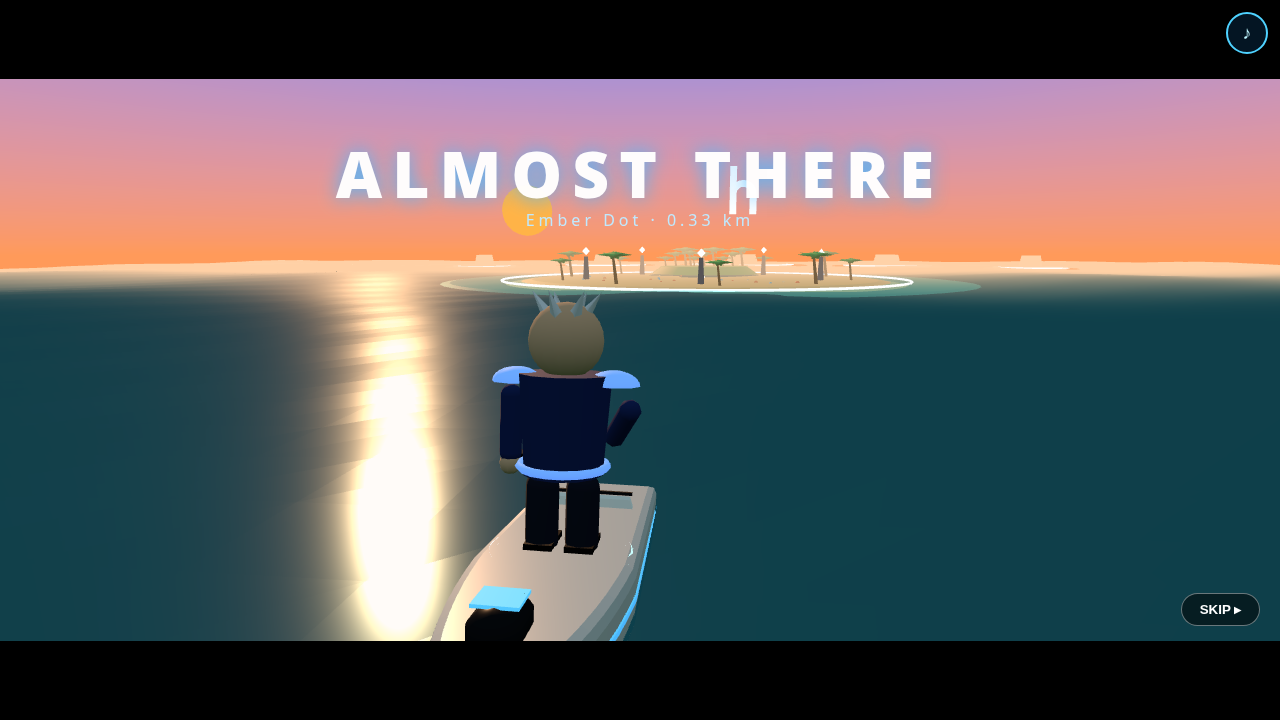
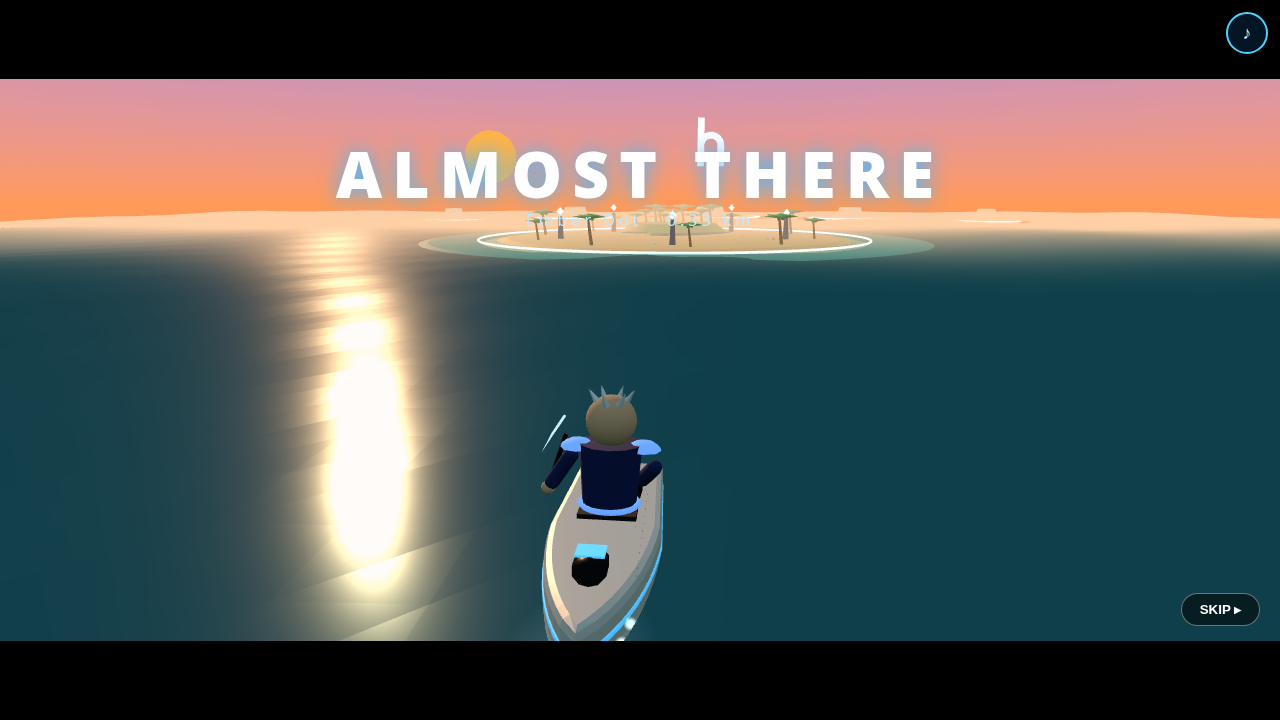
Seated Almost There boat ride + pulled-back cam; role chips: Berserker/Tidekeeper/Vanguard/Outer King

diff --git a/public/game.js b/public/game.js
@@ -274,7 +274,7 @@ const boat = new THREE.Group();
   const glass = new THREE.Mesh(new THREE.BoxGeometry(3.1, 1.1, .12), M(0x9fe8ff, .25, { transparent: true, opacity: .55, metalness: .6, roughness: .05 })); glass.position.set(0, 1.45, 2.6); glass.rotation.x = -1.0; const frame = new THREE.Mesh(new THREE.BoxGeometry(3.2, .1, .1), M(0x14161c, 0)); frame.position.set(0, 1.85, 2.3); boat.add(frame);
   const motor = new THREE.Mesh(new THREE.BoxGeometry(.35, 1.9, .5), M(0x14161c, 0, { metalness: .6, roughness: .3 })); motor.position.set(0, .2, -6.6);
   const cowl = new THREE.Mesh(new THREE.CapsuleGeometry(.6, .7, 4, 10), M(0x1a1d24, 0, { metalness: .5, roughness: .25 })); cowl.rotation.x = Math.PI / 2; cowl.scale.set(1, 1, .85); cowl.position.set(0, 1.55, -6.6); const cap = new THREE.Mesh(new THREE.BoxGeometry(1, .08, .9), M(SKY, 1)); cap.position.set(0, 2.05, -6.6); boat.add(cap);
-  boat.add(keel, hull, stripe, deck, glass, motor, cowl);
+  const seat = new THREE.Mesh(new THREE.BoxGeometry(2.4, .45, 1.6), M(0x1a1d24, 0, { roughness: .7 })); seat.position.set(0, 1.12, -.9); boat.add(keel, hull, stripe, deck, glass, motor, cowl, seat);
   // wake: two foam ribbons + a center churn (shared additive sprite, no particles flood)
   const foam = (x, rot) => { const w = sprite(STREAK, 0xcfeff5, 1.3, 30, .35); w.material.blending = THREE.NormalBlending; w.position.set(x, -.3, -24); w.rotation.y = Math.PI + rot; boat.add(w); return w; };
   const blob = (x, z, sx, sz) => { const c = sprite(ORB, 0xf2fbff, sx, sz, .8); c.material.blending = THREE.NormalBlending; c.position.set(x, -.2, z); boat.add(c); return c; };
@@ -523,11 +523,12 @@ function startCine() {
   $('#cineText').textContent = MAPID === 'binance' ? 'BINANCE SIEGE' : 'HERTZFLOW'; $('#cineSub').textContent = MAPID === 'binance' ? 'SHORE ▸ West Channel ▸ East Fort ▸ Outer L ▸ CORE' : 'SHORE ▸ Left Pill ▸ H Bridge ▸ Right Pill ▸ EXTRACT';
 }
 function startBoat() { crumb.visible = false; S.mode = 'cine'; S.t = 0; clouds.visible = false; setArena(false); scene.fog.far = 320; $('#cineText').textContent = 'ALMOST THERE';
-  boat.visible = true; boat.position.set(0, 0, 230); boat.rotation.y = Math.PI; boat.add(zayn); zayn.position.set(0, .9, -1); zayn.rotation.set(0, 0, 0); zayn.scale.set(1, 1, 1); }
+  boat.visible = true; boat.position.set(0, 0, 230); boat.rotation.y = Math.PI; boat.add(zayn); zayn.position.set(0, -1.05, -.6); zayn.rotation.set(0, 0, 0); zayn.scale.set(1, 1, 1); seatPose(true); }
+function seatPose(on) { const u = zayn.userData; if (!u.legL) return; u.legL.rotation.set(on ? -1.45 : 0, 0, on ? -.12 : 0); u.legR.rotation.set(on ? -1.45 : 0, 0, on ? .12 : 0); if (u.armR) { u.armR.rotation.set(on ? -.25 : -.2, 0, on ? .55 : 0); } } // seated Almost There: knees bent mid-hull, hand down on the gunwale
 function landOnBeach() {
   if (S.mode !== 'cine') return; S.mode = 'fading'; fade(1);
   setTimeout(() => {
-    boat.visible = false; boat.remove(zayn); scene.add(zayn); buildMap(MAPID); S.yaw = Math.PI; setArena(true);
+    boat.visible = false; boat.remove(zayn); scene.add(zayn); seatPose(false); buildMap(MAPID); S.yaw = Math.PI; setArena(true);
     Object.assign(S, { hp: CH.hp, en: 40, score: 0, kills: 0, xp: 0, wave: 0, iframes: 0, buff: 0, spawnQ: [], waveNext: 0, cd: { wave: 0, chain: 0, roar: 0, dodge: 0 } });
     show('#cine', false); show('#hud', true);
     startSection(0, true);
@@ -651,7 +652,7 @@ const merits = () => +localStorage.getItem('sw_merits') || 0, owned = () => new 
 const isOwned = id => ALL || owned().has(id);
 function addMerits(n) { localStorage.setItem('sw_merits', merits() + n); }
 const CLASS = { lyra: ['Scout', 'FAST FEET, GREEN BOLTS, ONE MOON RAIN.'], hertzling: ['Spirit', 'PULLS THE PACK, THEN BREAKS THE ECHO.'], chado: ['Blade', 'TWO BLADES, ONE DASH — THEY NEVER SEE IT.'],
-  kael: ['Guard', 'Line placeholder.'], warden: ['Warden', 'Line placeholder.'], bankyo: ['Vault', 'Line placeholder.'], zayn: ['Sniper', 'Line placeholder.'], hero: ['Founder', 'Line placeholder.'] };
+  kael: ['Berserker', 'Line placeholder.'], warden: ['Vanguard', 'Line placeholder.'], bankyo: ['Tidekeeper', 'Line placeholder.'], zayn: ['Outer King', 'Line placeholder.'], hero: ['Founder', 'Line placeholder.'] };
 const SIL = col => `<svg viewBox="0 0 40 48" class="sil"><circle cx="20" cy="11" r="7" fill="${col}"/><path d="M8 46 L11 24 Q20 17 29 24 L32 46 Z" fill="${col}"/><path d="M29 26 L38 18" stroke="${col}" stroke-width="3"/></svg>`;
 const KIT = c => `<div class="kicons">${[['◆', c.wave.col, 'Wave'], ['◎', c.chain.col, c.chain.name], ['✦', c.roar.col, c.roar.name]].map(([g, col, t]) => `<span title="${t}" style="--k:#${new THREE.Color(col).getHexString()}">${g}</span>`).join('')}</div>`;
 function boneCard(id, c, own) { const [role, line] = CLASS[id] || ['Hero', 'Line placeholder.'];
@@ -697,7 +698,7 @@ function tick(now) {
     burst(new THREE.Vector3(boat.position.x + (Math.random() - .5) * 3, .2, boat.position.z + 5), [0xffffff, 0xbff6ff], 2, 3, 2, 8);
     $('#cineSub').textContent = `Ember Dot · ${Math.max(0, (boat.position.z - 34) / 500).toFixed(2)} km`;
     const sw = Math.sin(S.t * .35) * 6;
-    cam.position.set(boat.position.x + sw, 9 + Math.sin(S.t) * .4, boat.position.z + 19); cam.lookAt(boat.position.x, 3, boat.position.z - 20);
+    cam.position.set(boat.position.x + sw * .7, 13.5 + Math.sin(S.t) * .4, boat.position.z + 27); cam.lookAt(boat.position.x, 2, boat.position.z - 22); zayn.position.y = -1.05 + Math.sin(S.t * 2.2 + .6) * .04; seatPose(true);
     if (S.t > 13.5) landOnBeach();
   } else {
     if (S.mode === 'play') {

diff --git a/docs/DESIGN.md b/docs/DESIGN.md
@@ -104,3 +104,4 @@ Gold/charcoal plate, mini silhouette, role chip, 1-liner, 3 kit icons (wave/chai
 - Cursor: soft cyan ground reticle; sticky ~22° cone snaps to a readable foe; outside the cone the cursor always wins.
 - Facing dead-zone kills yaw jitter; dodge hop 2.1u.
 - Foe read: tiny HP bar only within range; locked foe shows its name (Driftwood Crab / Wick Runner / Red Candle Brute). Float numbers + white hit-flash unchanged.
+- Boat ride: seated mid-hull (knees bent, hand on gunwale), soft seat bob; camera pulled back/high to show the full hull; stands only after the beach fade.
